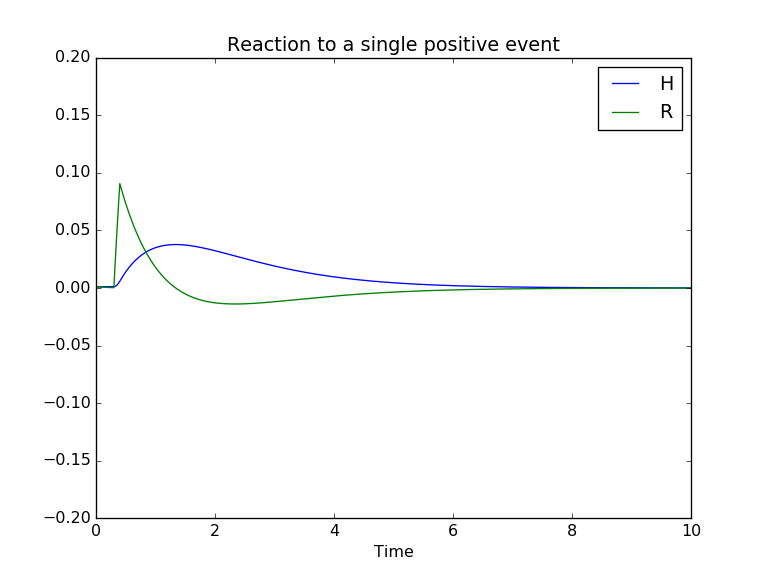
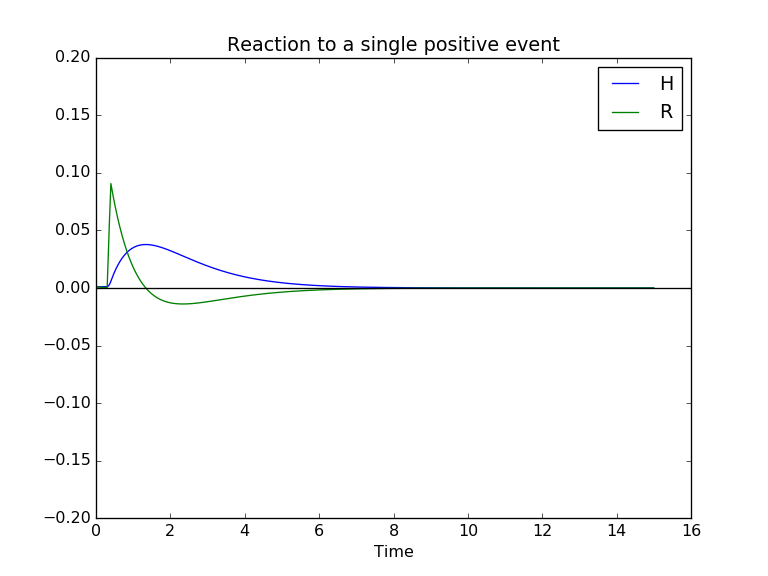
repetative positive event

diff --git a/main.py b/main.py
@@ -1,6 +1,7 @@
 __author__ = 'Danny'
 from scipy.integrate import odeint
 import pylab as p
+import math
 import mpl_toolkits.mplot3d.axes3d as p3
 
 
@@ -17,17 +18,43 @@ def emotionsLottery(state, t):
     b = 2
     return [H, -b*H-R+F_Lottery(t)]
 
-t = p.arange(0, 10, 0.01)
+
+def F_Drugs(t):
+    if t < 5 and 0.3 < math.modf(t)[0] < 0.5:
+        return 1
+    else:
+        return 0
+
+
+def emotionsDrugs(state, t):
+    R = state[0]
+    H = state[1]
+    b = 2
+    return [H, -b*H-R+F_Drugs(t)]
+
+t = p.arange(0, 15, 0.01)
 state0 = [0.001, 0.001]
-state = odeint(emotionsLottery, state0, t)
+lotterySol = odeint(emotionsLottery, state0, t)
+drugsSol = odeint(emotionsDrugs, state0, t)
 
 p.figure()
-p.plot(t, state)
+p.plot(t, lotterySol)
+p.axhline(0, color='black')
 p.ylim([-0.2, 0.2])
 p.xlabel('Time')
 p.legend(('H', 'R'))
 p.title('Reaction to a single positive event')
 p.savefig('Single PositiveEvent.png', dpi=96)  #  uncomment to save plots
+p.show()
+
+p.figure()
+p.plot(t, drugsSol)
+p.axhline(0, color='black')
+p.ylim([-0.5, 0.5])
+p.xlabel('Time')
+p.legend(('H', 'R'))
+p.title('Reaction to a repetative positive event')
+p.savefig('Repetative PositiveEvent.png', dpi=96)  #  uncomment to save plots
 p.show()
 #
 # p.figure()
